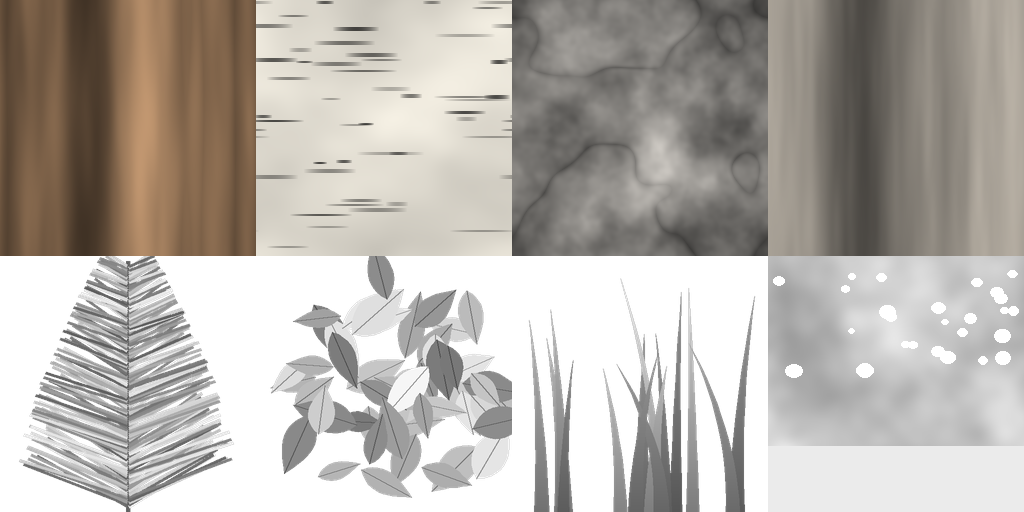
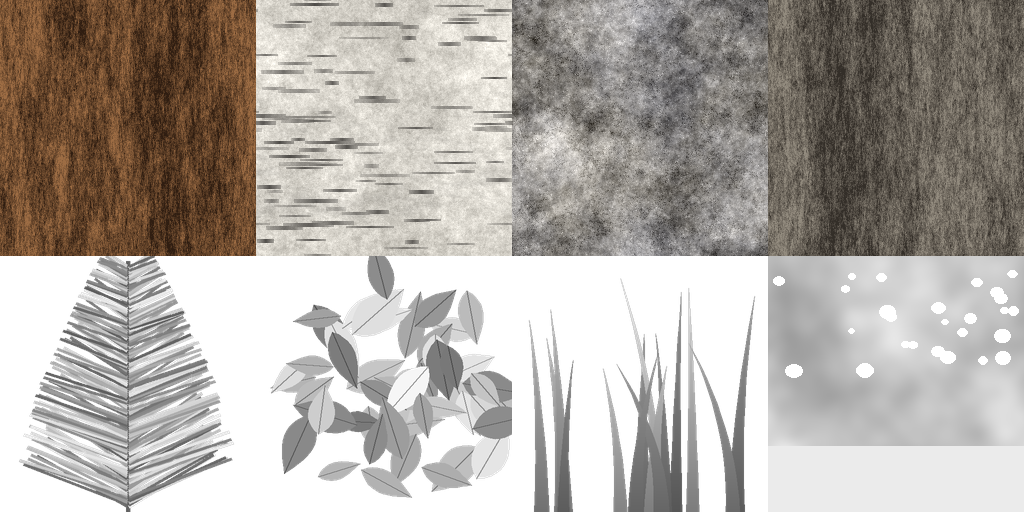
V10.67 : arches traversables, barre de boss, son des cinématiques, fin de prologue, rochers posés au sol, textures roche/écorce, icône de monture
Claude-Session: https://claude.ai/code/session_01SiRFCrZnP1bo8kj6dtiAST

Changed region(s): [[0.0, 0.0, 1.0, 0.5], [0.375, 0.4688, 0.4062, 0.5]]

diff --git a/src/world/World.js b/src/world/World.js
@@ -422,7 +422,7 @@ export class World {
     }
     const rockMesh = new THREE.InstancedMesh(new THREE.DodecahedronGeometry(1, 0), new THREE.MeshStandardMaterial({ color: 0x7d7b78, roughness: 1, flatShading: true }), rocks.length);
     rocks.forEach((r, i) => {
-      dummy.position.set(r.x, r.y + r.s * 0.15, r.z);
+      dummy.position.set(r.x, this._gmin(r.x, r.z, r.s) + r.s * 0.15, r.z);   // V10.67 : le rocher suit le point le plus bas de son emprise (plus de rochers en l'air sur les pentes)
       dummy.rotation.set(r.v * 3, r.r, r.v * 2);
       dummy.scale.set(r.s * 1.2, r.s * 0.75, r.s);
       dummy.updateMatrix();
@@ -566,7 +566,7 @@ export class World {
       const mesh = new THREE.InstancedMesh(rocksG[k], nat(new THREE.MeshStandardMaterial({ vertexColors: true, roughness: 1 })), list.length);
       list.forEach((r, i) => {
         const sc = k === 2 ? r.s * 0.8 : r.s;
-        dummy.position.set(r.x, r.y + sc * 0.05, r.z);
+        dummy.position.set(r.x, this._gmin(r.x, r.z, sc * 1.1) + sc * 0.05, r.z);
         dummy.rotation.set((r.v - 0.5) * 0.4, r.r, (r.v - 0.5) * 0.3);
         dummy.scale.set(sc * 1.15, sc * (0.7 + r.v * 0.5), sc);
         dummy.updateMatrix();
@@ -700,18 +700,18 @@ export class World {
     // Royaume céleste : colonnes de marbre (certaines brisées)
     meshK('biome_colonne', cyl, std(0xeee6d2, { roughness: 0.6 }), pick('celeste', 70, 0.55), (o, d) => { const h = o.v < 0.4 ? 1.2 + o.v * 3 : 5 + o.v * 4; d.position.y = o.y + h / 2 - 0.2; d.scale.set(0.55, h, 0.55); }, 0.7);
     // Montagnes de fer : gros blocs
-    meshK('biome_roche_fer', dode, std(0x6b6a66), pick('mount', 70, 0.5), (o, d) => { const s = 1.5 + o.v * 3.2; d.position.y = o.y + s * 0.3; d.scale.set(s * 1.2, s * 0.8, s); d.rotation.set(o.v * 3, o.r, o.v * 2); }, 1.3);
+    meshK('biome_roche_fer', dode, std(0x6b6a66), pick('mount', 70, 0.5), (o, d) => { const s = 1.5 + o.v * 3.2; d.position.y = this._gmin(o.x, o.z, s) + s * 0.3; d.scale.set(s * 1.2, s * 0.8, s); d.rotation.set(o.v * 3, o.r, o.v * 2); }, 1.3);
     // V8.0 — Désert d'Ambre : cactus et rochers de grès
     const sandstone = std(0xb98e52), cactusM = std(0x4f7a3a);
     meshK('biome_cactus', cyl, cactusM, pick('desert', 95, 0.6), (o, d) => { const h = 1.6 + o.v * 2.6; d.position.y = o.y + h / 2 - 0.1; d.scale.set(0.4 + o.v * 0.12, h, 0.4 + o.v * 0.12); }, 0.55);
-    meshK('biome_roche_gres', dode, sandstone, pick('desert', 85, 0.55), (o, d) => { const s2 = 1.2 + o.v * 3.4; d.position.y = o.y + s2 * 0.3; d.scale.set(s2 * 1.3, s2 * 0.75, s2); d.rotation.set(o.v * 2, o.r, o.v); }, 1.2);
+    meshK('biome_roche_gres', dode, sandstone, pick('desert', 85, 0.55), (o, d) => { const s2 = 1.2 + o.v * 3.4; d.position.y = this._gmin(o.x, o.z, s2) + s2 * 0.3; d.scale.set(s2 * 1.3, s2 * 0.75, s2); d.rotation.set(o.v * 2, o.r, o.v); }, 1.2);
     // Marais de Brume : souches pourries, roseaux géants et feux follets
     meshK('biome_souche', cyl, std(0x3b2f22), pick('swamp', 85, 0.6), (o, d) => { const h = 0.8 + o.v * 2.2; d.position.y = o.y + h / 2 - 0.15; d.scale.set(0.5 + o.v * 0.4, h, 0.5 + o.v * 0.4); d.rotation.z = (o.v - 0.5) * 0.3; }, 0.6);
     meshK('biome_roseau', cone, std(0x4d6a2c), pick('swamp', 160, 0.55), (o, d) => { const h = 1.8 + o.v * 2.2; d.position.y = o.y + h / 2 - 0.1; d.scale.set(0.3, h, 0.3); }, 0);
     mesh(octa, new THREE.MeshBasicMaterial({ color: 0x9dffb0 }), pick('swamp', 40, 0.6), (o, d) => { d.position.y = o.y + 1.4 + o.v * 1.4; d.scale.setScalar(0.16 + o.v * 0.08); });
     // Toundra de Givre : pointes de glace et rochers enneigés
     meshK('biome_glace', cone, std(0xbfe6f5, { emissive: 0x4a7a90, emissiveIntensity: 0.45, roughness: 0.3 }), pick('tundra', 110, 0.55), (o, d) => { const h = 1.5 + o.v * 5; d.position.y = o.y + h / 2 - 0.2; d.scale.set(0.5 + o.v * 0.7, h, 0.5 + o.v * 0.7); d.rotation.z = (o.v - 0.5) * 0.25; }, 0.6);
-    meshK('biome_roche_neige', dode, std(0xe6eef2), pick('tundra', 70, 0.55), (o, d) => { const s2 = 1.2 + o.v * 2.8; d.position.y = o.y + s2 * 0.3; d.scale.set(s2 * 1.2, s2 * 0.8, s2); d.rotation.set(o.v * 2, o.r, o.v); }, 1.1);
+    meshK('biome_roche_neige', dode, std(0xe6eef2), pick('tundra', 70, 0.55), (o, d) => { const s2 = 1.2 + o.v * 2.8; d.position.y = this._gmin(o.x, o.z, s2) + s2 * 0.3; d.scale.set(s2 * 1.2, s2 * 0.8, s2); d.rotation.set(o.v * 2, o.r, o.v); }, 1.1);
   }
 
   // Herbe et fleurs dynamiques autour du joueur (appelé par Game après build())
@@ -770,6 +770,13 @@ export class World {
       const far = d > R + (ch.far ? -10 : 10);   // hystérésis : évite le clignotement à la frontière
       if (far !== !!ch.far) { ch.far = far; ch.mesh.visible = !far; ch.lo.visible = far; }
     }
+  }
+
+  // V10.67 : hauteur du terrain la plus basse sous l'emprise d'un objet de rayon `rad` (pour poser les rochers sans vide sous eux)
+  _gmin(x, z, rad) {
+    let m = this.heightAt(x, z);
+    for (let k = 0; k < 4; k++) { const a = k * Math.PI / 2 + 0.6; m = Math.min(m, this.heightAt(x + Math.cos(a) * rad, z + Math.sin(a) * rad)); }
+    return m;
   }
 
   setGrassVisible(v) { if (this.grass) this.grass.setVisible(v); }

diff --git a/src/story/StoryDirector.js b/src/story/StoryDirector.js
@@ -147,23 +147,25 @@ export class StoryDirector {
     this._buildDom(cin);
     this._base = base;
     this._addLight(base);
-    g.audio?.cinemaMix?.(true);
-    g.audio?.play('levelup');
-    await wait(900);
-    for (const shot of cin.shots) {
-      if (this.skipped) break;
-      this._startShot(shot);
-      const t0 = performance.now();
-      for (const idx of shot.say) {
+    try {
+      g.audio?.cinemaMix?.(true);
+      g.audio?.play('levelup');
+      await wait(900);
+      for (const shot of cin.shots) {
         if (this.skipped) break;
-        const line = lines[idx];
-        if (!line) continue;
-        await this._sayLine(line);
+        this._startShot(shot);
+        const t0 = performance.now();
+        for (const idx of shot.say) {
+          if (this.skipped) break;
+          const line = lines[idx];
+          if (!line) continue;
+          await this._sayLine(line);
+        }
+        const rest = shot.dur * 1000 - (performance.now() - t0);
+        if (rest > 0 && !this.skipped) await wait(rest);
       }
-      const rest = shot.dur * 1000 - (performance.now() - t0);
-      if (rest > 0 && !this.skipped) await wait(rest);
-    }
-    if (cin.card && !this.skipped) await this._showCard(cin.card);
+      if (cin.card && !this.skipped) await this._showCard(cin.card);
+    } catch (e) { console.warn('[histoire] cinématique interrompue', e); }
     this._finish();
   }
 
@@ -175,7 +177,8 @@ export class StoryDirector {
     const min = readTime(line.t) * 1000;
     const t0 = performance.now();
     const skipP = new Promise((r) => { this._skipResolve = r; });
-    await Promise.race([this.voice.speak(line), skipP]);
+    const cap = new Promise((r) => setTimeout(r, min + 6000));   // V10.67 : une voix de synthèse qui ne se termine jamais ne bloque plus la scène
+    await Promise.race([this.voice.speak(line), skipP, cap]);
     const left = min - (performance.now() - t0);
     if (left > 0 && !this.skipped) await Promise.race([wait(left), skipP]);
     if (!this.skipped) await Promise.race([wait(450), skipP]);
@@ -215,14 +218,15 @@ export class StoryDirector {
 
   _finish() {
     const g = this.game;
-    g.audio?.cinemaMix?.(false);
-    this.voice.stop();
+    // V10.67 : chaque étape est protégée, pour que le rideau noir (carte de fin) disparaisse toujours — jamais d'écran noir bloqué après le générique
+    try { g.audio?.cinemaMix?.(false); } catch (e) { /* ignoré */ }
+    try { this.voice.stop(); } catch (e) { /* ignoré */ }
     this._shot = null;
-    if (this._light) { g.scene.remove(this._light); this._light.dispose?.(); this._light = null; }
-    this._closeDom();
+    try { if (this._light) { g.scene.remove(this._light); this._light.dispose?.(); this._light = null; } } catch (e) { /* ignoré */ }
+    try { this._closeDom(); } catch (e) { document.getElementById('story-cine')?.remove(); document.querySelector('#game-ui')?.classList.remove('cine-hide'); }
     g.dialogueOpen = false;
     this.playing = false;
-    g.cameraRig?.update?.(g.player.pos, 0.016, { x: 0, y: 0 }, 0, g.player.yaw);
+    try { g.cameraRig?.update?.(g.player.pos, 0.016, { x: 0, y: 0 }, 0, g.player.yaw); } catch (e) { /* ignoré */ }
   }
 
   // ---------------------------------------------------------------- interface

diff --git a/src/ui/Icons.js b/src/ui/Icons.js
@@ -10,7 +10,7 @@ export const ICONS = {
   trophy: S('<path d="M8 4h8v5.2a4 4 0 0 1-8 0z"/><path d="M8 6H5.2v1.3A3 3 0 0 0 8 10.3M16 6h2.8v1.3A3 3 0 0 1 16 10.3"/><path d="M12 13.2V17M9 20h6M10.2 17h3.6"/>'),
   people: S('<circle cx="9" cy="8.5" r="3"/><path d="M3.5 19c0-3.5 2.5-5.4 5.5-5.4s5.5 1.9 5.5 5.4"/><circle cx="17" cy="9.5" r="2.4" opacity=".75"/><path d="M16 14c3 0 4.8 1.7 4.8 4.4" opacity=".75"/>'),
   portal: S('<ellipse cx="12" cy="12" rx="5.2" ry="8.5"/><ellipse cx="12" cy="12" rx="2.4" ry="5" opacity=".7"/><path d="M4 5.5c1.2-1 2.6-1.5 4-1.7M20 18.5c-1.2 1-2.6 1.5-4 1.7" opacity=".55"/>'),
-  horse: S('<path d="M6.5 20.5V11a5.5 5.5 0 0 1 11 0v9.5"/><path d="M10.5 20.5V11.2a1.5 1.5 0 0 1 3 0v9.3" opacity=".7"/><circle cx="6.5" cy="15" r=".7" fill="url(#icoG)"/><circle cx="17.5" cy="15" r=".7" fill="url(#icoG)"/>'),
+  horse: S('<path d="M7.5 21C7.8 15.5 8.6 11.5 10.8 8.6L11 4.4l2.3 3.2C15.6 7.8 17.3 9.3 18.4 11.8l2.3 5.4c.4 1.2-.5 2.2-1.7 2.1l-1.6-.2c-1-.1-1.7-.9-2-1.9-1.1.6-1.8 1.6-1.8 3.8"/><path d="M9 11.6L6.6 10.6M8.3 14.6L5.8 14M7.9 17.6l-2.4.2" opacity=".7"/><circle cx="15.2" cy="11.9" r=".85" fill="url(#icoG)" stroke="none"/><circle cx="19.6" cy="16.6" r=".5" fill="url(#icoG)" stroke="none" opacity=".8"/>'),
   medal: S('<path d="M8.5 3.5L12 10l3.5-6.5"/><circle cx="12" cy="15" r="5.2"/><path d="M12 12.4l.9 1.8 2 .3-1.45 1.4.35 2-1.8-.95-1.8.95.35-2-1.45-1.4 2-.3z" fill="url(#icoG)" stroke="none"/>'),
   moon: S('<path d="M19.5 14.2A8 8 0 1 1 9.8 4.5a6.4 6.4 0 0 0 9.7 9.7z"/><path d="M17 4v3M15.5 5.5h3" opacity=".7"/>'),
   chat: S('<path d="M4 5.5h16v10.5H11.5L7.5 20v-4H4z"/><path d="M8 9.5h8M8 12.5h5" opacity=".7"/>'),

diff --git a/src/world/Landmarks.js b/src/world/Landmarks.js
@@ -131,7 +131,7 @@ export function buildLandmarks(world) {
           break;
         }
         case 'obelisk': { G('lm_obelisque'); const o = G('lm_obelisque_coeur'); col(0, 0, 1.6); anim.push((t) => { o.rotation.y = t * 0.5; }); break; }
-        case 'arch': G('lm_arche'); col(-5, 0, 1.1); col(5, 0, 1.1); break;
+        case 'arch': g.userData.noAutoCollide = true; G('lm_arche'); col(-5, 0, 1.1); col(5, 0, 1.1); break;
         case 'fountain': { G('lm_fontaine'); const orb = G('lm_orbe', 0, 4, 0); anim.push((t) => { orb.position.y = 4 + Math.sin(t * 1.6) * 0.3; orb.rotation.y = t; }); col(0, 0, 5); break; }
         case 'temple': G('lm_temple'); colsOf('lm_temple'); break;
         case 'maw': G('lm_gueule'); colsOf('lm_gueule'); break;
@@ -199,6 +199,7 @@ export function buildLandmarks(world) {
         anim.push((t) => { o.rotation.y = t * 0.5; }); break;
       }
       case 'arch': {
+        g.userData.noAutoCollide = true;
         for (const sx of [-1, 1]) { add(cyl(0.9, 1.1, 8, 8), marble, sx * 5, 4, 0); col(sx * 5, 0, 1.1); }
         add(new THREE.TorusGeometry(5, 0.7, 8, 20, Math.PI), gold, 0, 8, 0); break;
       }
@@ -255,6 +256,7 @@ function buildBorderGates(world, root, mat) {
       const g = new THREE.Group();
       g.position.set(x, world.heightAt(x, z), z);
       g.rotation.y = phi;
+      g.userData.noAutoCollide = true;   // V10.67 : les deux piliers ont leurs collisions ; le volume englobant du portique bouchait le passage
       const glbGate = ModelLibrary.hasTown(['lm_portique', 'lm_portique_banniere']);
       if (glbGate) {
         g.add(ModelLibrary.townInstance('lm_portique'));

diff --git a/src/core/Game.js b/src/core/Game.js
@@ -931,7 +931,7 @@ export class Game {
       if (gv.xp) this.player.gainXp(gv.xp);
     });
     b.on('bossStart', (boss) => this.hud.notify(`⚠ ${boss.name} se réveille !`, 'boss'));
-    b.on('bossHp', (boss) => this.hud.showBossBar(boss));
+    b.on('bossHp', (boss) => { if (boss.alive && boss.hp > 0) this.hud.showBossBar(boss); });
     b.on('bossDefeated', (boss) => { this.hud.notify(`🏆 ${boss.name} est vaincu !`, 'boss'); this.hud.showBossBar(null); });
 
     // ---------- Réseau (multijoueur, chat, groupe) ----------
@@ -3337,7 +3337,10 @@ export class Game {
     for (const b of this.bosses) {
       if (b.alive) b.update(dt, gwHost ? this.gw.pick(b) : this.player);
       if (!b.activated && !b.netProxy && this.gw.activeTargets().some((t) => t.pos.distanceTo(b.home) < 20)) { b.activate(); b.activated = true; }
-      if (b.state !== 'dormant' && b.alive) nearestActiveBoss = nearestActiveBoss || b;
+      if (b.state !== 'dormant' && b.alive && b.hp > 0 && !this.player.dead) { // V10.67 : barre de boss = le boss actif le plus proche, et seulement s'il est à portée de vue
+        const d2b = b.pos.distanceToSquared(this.player.pos);
+        if (d2b < 110 * 110 && (!nearestActiveBoss || d2b < nearestActiveBoss._d2)) { nearestActiveBoss = b; b._d2 = d2b; }
+      }
     }
     this._camQuat.copy(this.camera.quaternion);
     for (const n of this.npcs) n.update(dt, this._camQuat, this.player?.pos);

diff --git a/src/ui/HUD.js b/src/ui/HUD.js
@@ -154,7 +154,7 @@ export class HUD {
           </div>
           <button id="mm-news" class="news-card" data-act="patch" aria-label="Voir les nouveautés"><span class="news-badge" id="news-badge">Nouveau</span><b>Nouveautés · V${LATEST_VERSION}</b><small>${PATCH_NOTES[0].title}</small></button>
           <div class="menu-hint">Jouable au clavier et à la souris, ou au tactile.</div>
-          <div class="menu-hint" id="build-version">Version V10.66 — Korvalune</div>
+          <div class="menu-hint" id="build-version">Version V10.67 — Korvalune</div>
         </div>
       </div>
 
@@ -814,7 +814,7 @@ export class HUD {
 
   showBossBar(boss) {
     const bar = this.q('#boss-bar');
-    if (!boss || boss.state === 'dormant' || !boss.alive) { bar.classList.add('hidden'); return; }
+    if (!boss || boss.state === 'dormant' || boss.state === 'dead' || !boss.alive || !(boss.hp > 0)) { bar.classList.add('hidden'); return; }
     bar.classList.remove('hidden');
     this.q('#bar-boss').style.width = `${(boss.hp / boss.maxHp) * 100}%`;
     this.q('#boss-name').textContent = boss.name + (boss.phase ? ` — Phase ${boss.phase + 1}` : '');

diff --git a/src/data/patchNotes.js b/src/data/patchNotes.js
@@ -3,6 +3,15 @@
 // la version dans package.json et dans le libellé de src/ui/HUD.js (#build-version). Écrire pour les joueurs : court, concret.
 export const PATCH_NOTES = [
   {
+    version: '10.67', title: 'Corrections du terrain',
+    items: [
+      '🚪 Les arches entre les zones se traversent enfin.',
+      '🪨 Les rochers sont posés au sol (plus de pierres en l’air sur les pentes), avec de nouvelles textures de roche et d’écorce.',
+      '🔊 Le son baisse pendant les cinématiques ; la scène de fin du prologue se referme toujours (plus d’écran noir).',
+      '🏆 La barre de boss disparaît quand le boss est vaincu ; nouvelle icône de monture.'
+    ]
+  },
+  {
     version: '10.66', title: 'Site officiel',
     items: [
       '🌐 Un site de présentation est en ligne : /bienvenue/ (présentation, téléchargements, nouveautés, création de compte).',

diff --git a/src/ui/IntroCinematic.js b/src/ui/IntroCinematic.js
@@ -466,6 +466,7 @@ export class IntroCinematic {
     if (!a.ctx) return;
     this.ac = a.ctx; this.aud = a;
     a.setMusicContext({ cinematic: true });
+    a.cinemaMix?.(true, 'intro');   // V10.67 : son plus bas pendant la cinématique
     a.startMusic();
     this._sfxTimers = [
       [21.5, () => a.play('absolute')], [28, () => { a.play('explode'); a.thunder(); }], [31, () => a.play('guardian')],
@@ -476,6 +477,6 @@ export class IntroCinematic {
   _stopAudio() {
     for (const id of this._sfxTimers || []) clearTimeout(id);
     this._sfxTimers = [];
-    if (this.aud) this.aud.setMusicContext({ cinematic: false }); // la musique du monde reprend en fondu enchaîné
+    if (this.aud) { this.aud.cinemaMix?.(false); this.aud.setMusicContext({ cinematic: false }); } // la musique du monde reprend en fondu enchaîné
   }
 }

diff --git a/src/audio/AudioManager.js b/src/audio/AudioManager.js
@@ -184,8 +184,9 @@ export class AudioManager {
   }
 
   // V10.52 : pendant une cinématique parlée, la musique et les ambiances baissent pour laisser entendre la voix
-  cinemaMix(on) {
-    this._cine = on ? { music: 0.16, ambience: 0.3, sfx: 0.6 } : null;
+  // V10.67 : `intro` = film d'ouverture (musique plus basse et bruitages adoucis : le son ne doit pas agresser)
+  cinemaMix(on, kind) {
+    this._cine = on ? (kind === 'intro' ? { music: 0.32, ambience: 0.2, sfx: 0.4, ui: 0.5 } : { music: 0.16, ambience: 0.3, sfx: 0.45, ui: 0.6 }) : null;
     this._applyMix(false);
   }
 
